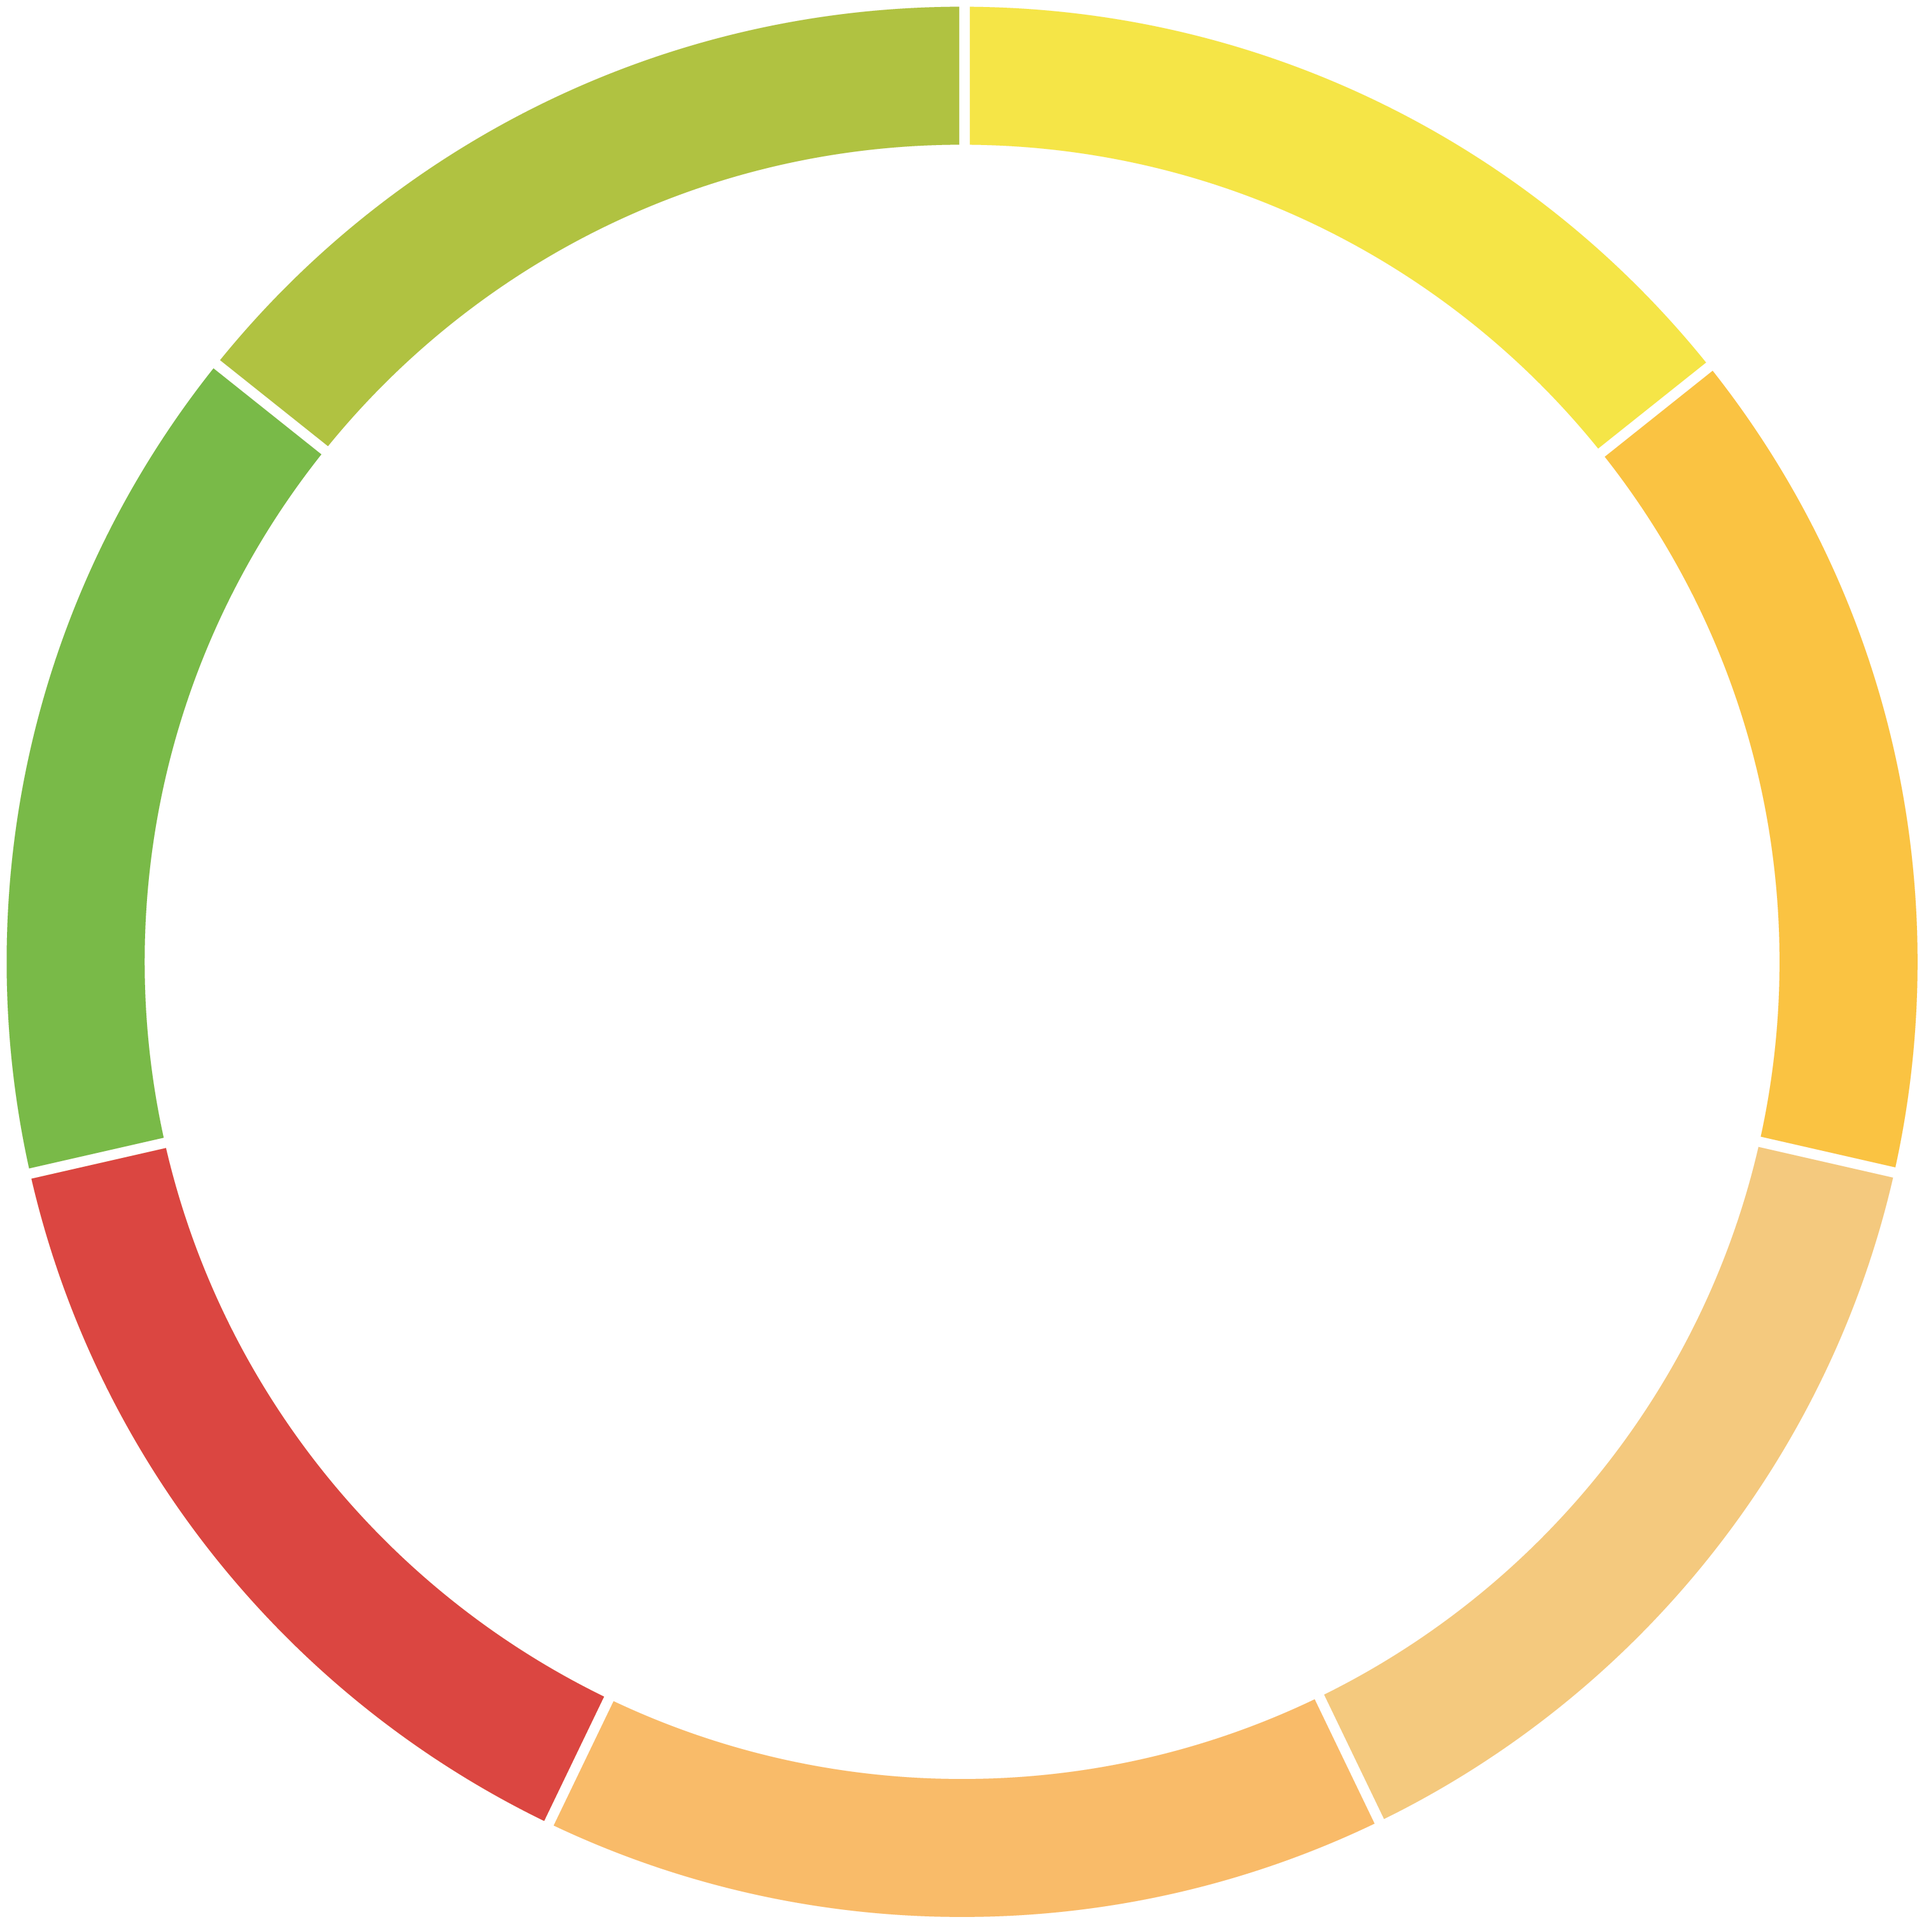
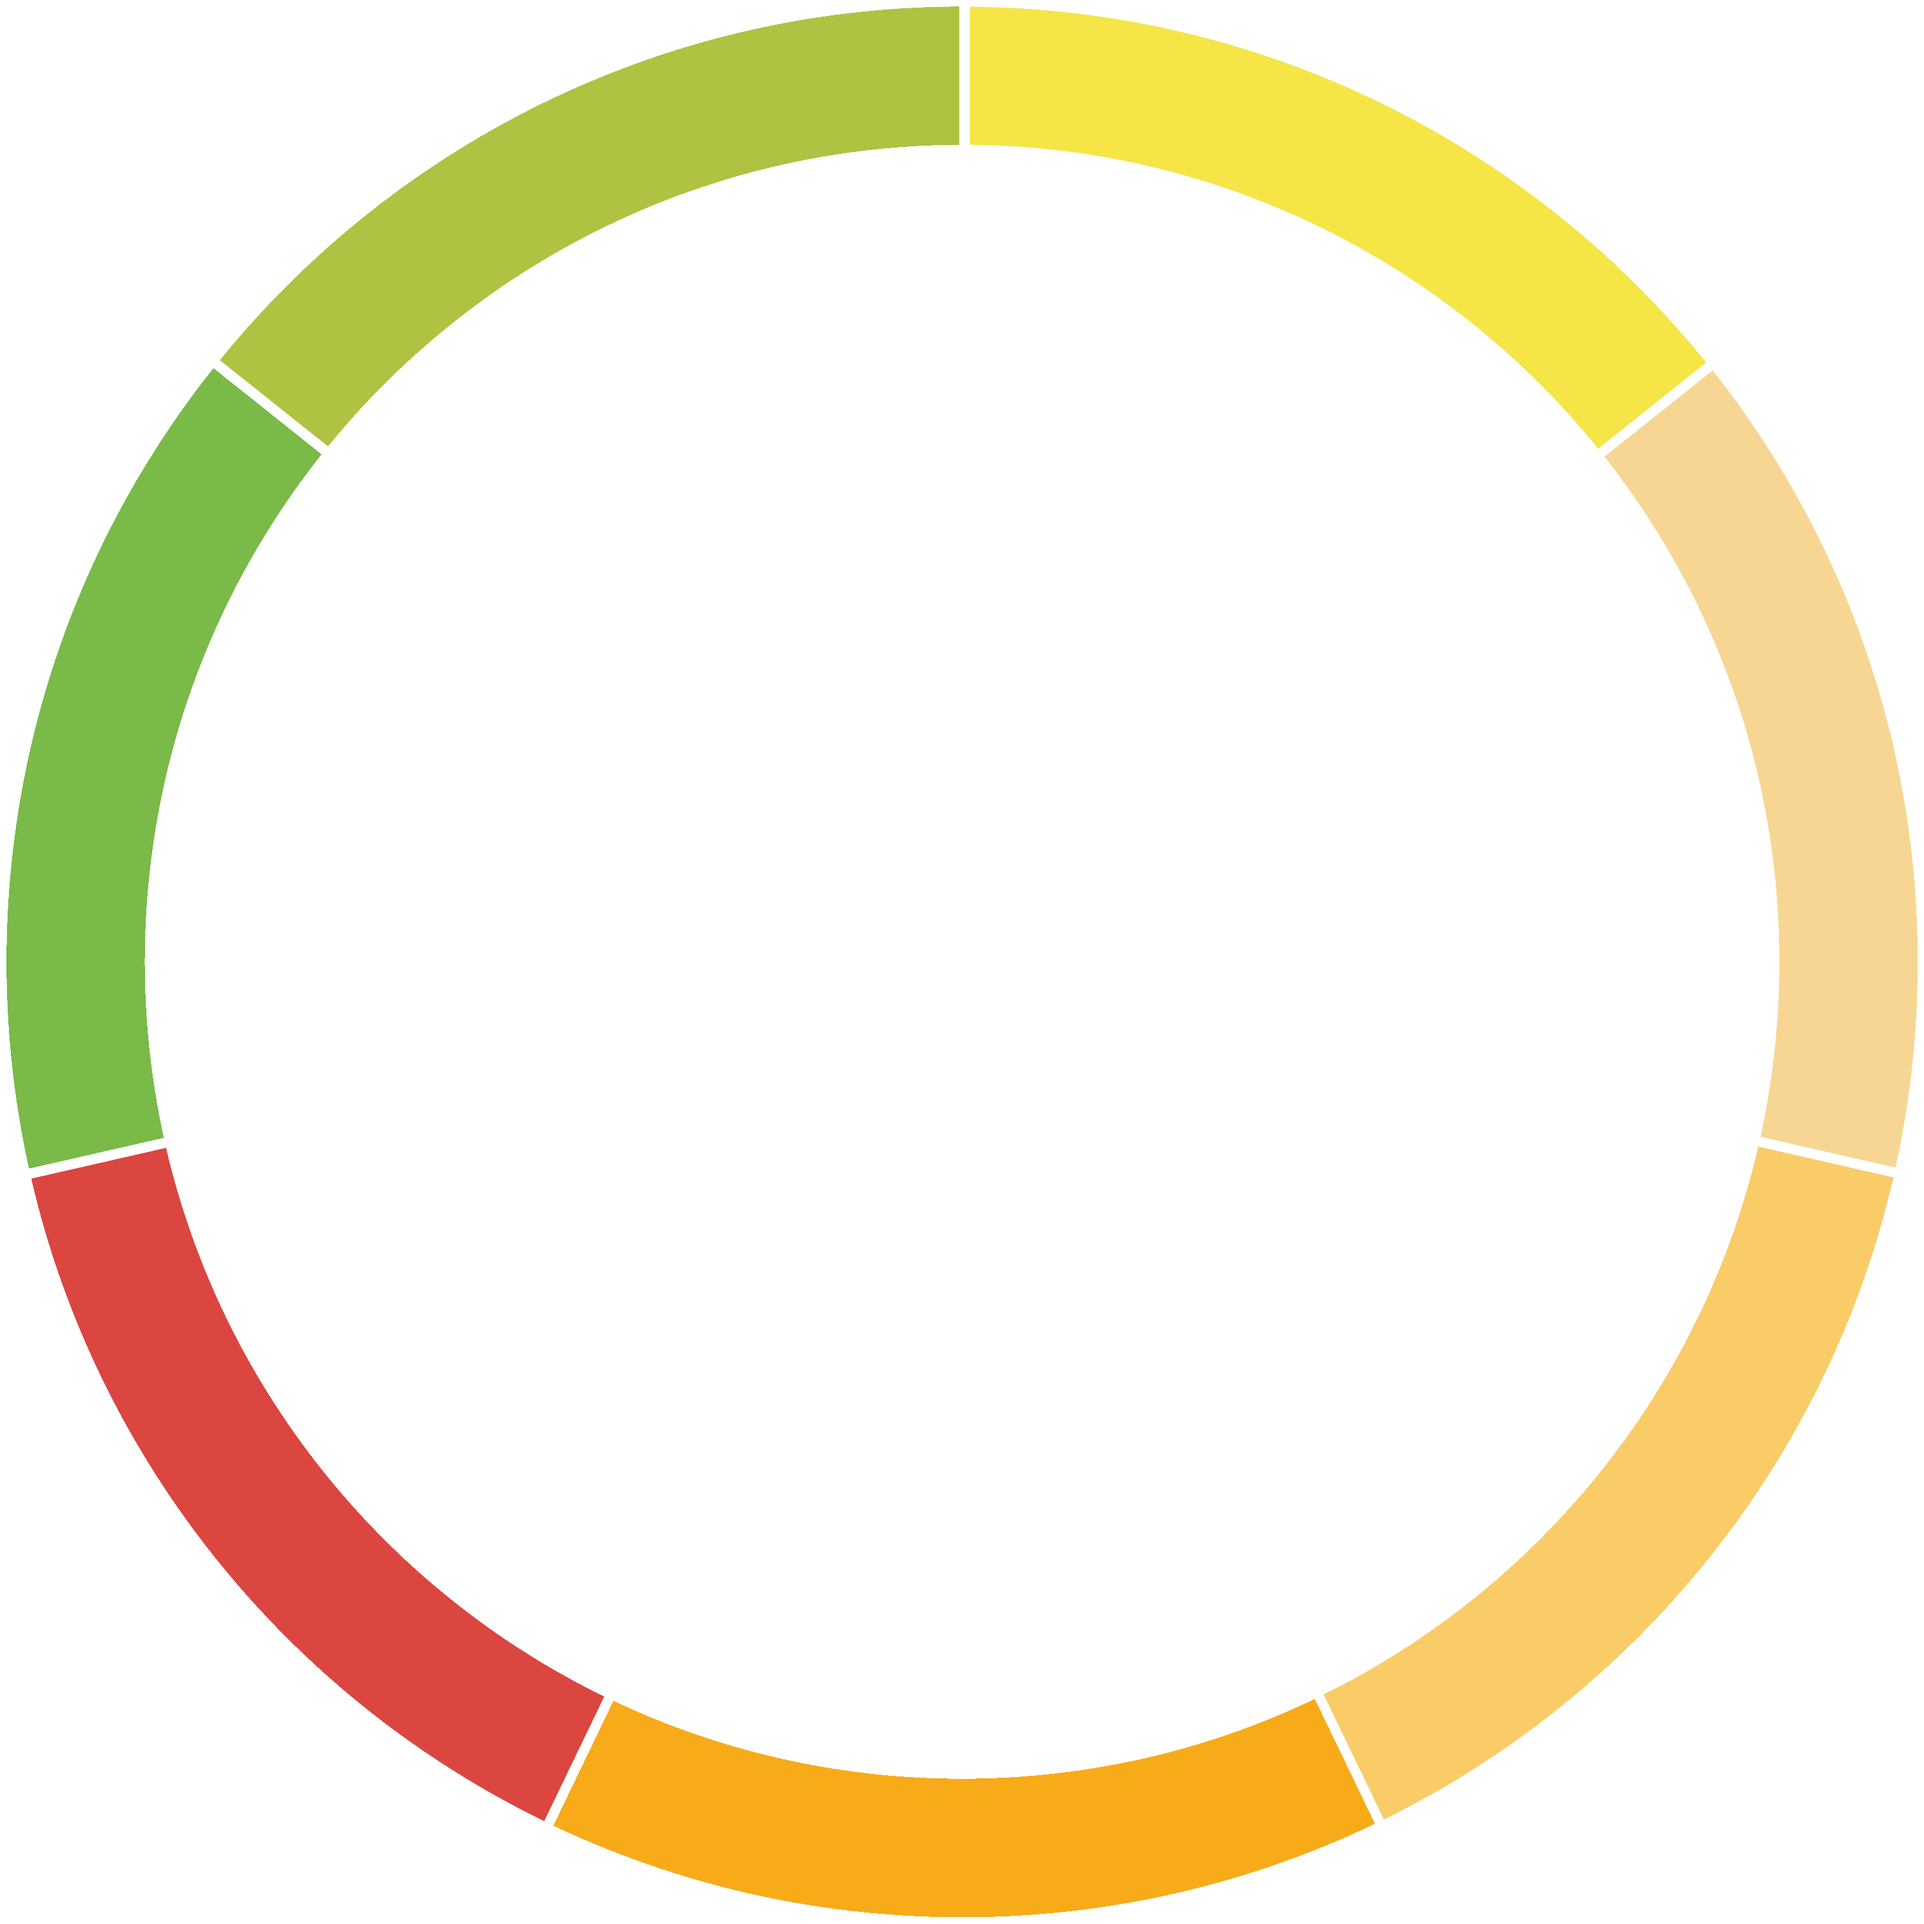
Фикс языка  Раскраска RACVD

Changed region(s): [[0.2799, 0.8704, 0.7152, 1.0], [0.8396, 0.1865, 1.0, 0.6217]]

diff --git a/healinoVue/src/components/RezultPublic-component.vue b/healinoVue/src/components/RezultPublic-component.vue
@@ -232,8 +232,8 @@
                 share: 'SHARE',
                 AgeDescriptionText:
                 "<p>Your age:</p>"+
-                "<p>Mental  {MentalAge} years. {txtMental}</p>"+
-                "<p>Biological  {BiologicalAge} years. {txtBiological}</p>"+
+                "<p>Mental {MentalAge} years. {txtMental}</p>"+
+                "<p>Biological {BiologicalAge} years. {txtBiological}</p>"+
                 "<p>Chronological {ChronologicalAge} years. </p>",
 
                 AgeBCom0: "It is necessary to see a doctor",
@@ -264,8 +264,8 @@
                 share: 'ПОДЕЛИТЬСЯ',
                 AgeDescriptionText:
                 "<p>Ваш возраст:</p>"+
-                "<p>Ментальный  {MentalAge} лет.   {txtMental}</p>"+
-                "<p>Биологический  {BiologicalAge} лет.   {txtBiological}</p>"+
+                "<p>Ментальный {MentalAge} лет. {txtMental}</p>"+
+                "<p>Биологический {BiologicalAge} лет. {txtBiological}</p>"+
                 "<p>Хронологический {ChronologicalAge} лет.</p>",
                 AgeBCom0: "Необходим осмотр врача",
                 AgeBCom1: "Ваше тело в отличной форме и моложе",
@@ -320,7 +320,7 @@
                 AgeMCom8: "Wysokie prawdopodobieństwo problemów psychologicznych",
 
                 CVDdescriptionText: '<p>Przez całe życie ryzyko wystąpienia miażdżycowej choroby sercowo-naczyniowej wynosi {RASCVD}%</p>'+
-                '<p>OW ciągu najbliższych 10 lat ryzyko wystąpienia miażdżycowej choroby sercowo-naczyniowej wynosi  {TenYearsASCVDCalculated}%.</p>'+
+                '<p>W ciągu najbliższych 10 lat ryzyko wystąpienia miażdżycowej choroby sercowo-naczyniowej wynosi {TenYearsASCVDCalculated}%.</p>'+
                 '<p>Możesz zmniejszyć ryzyko wystąpienia miażdżycowej choroby sercowo-naczyniowej do {TenYearsASCVDOptimal}%.</p>',
             }
         },

diff --git a/healinoVue/src/components/indicator-CVD10.vue b/healinoVue/src/components/indicator-CVD10.vue
@@ -1,6 +1,7 @@
 <template>
   <div class="mini_indicator mini_indicator6" v-on:click="start">
     <div class="progress_bar2">
+      <div class="color" v-bind:style="{background:color[colorId]}"></div>
       <div class="cursor"
            v-bind:style="{ transform: 'rotate(' + TenYearsASCVDDeg + 'deg)' }"></div>
       <div class="opacity_cursor" v-bind:style="{ transform: 'rotate(' + TenYearsASCVDDegOp + 'deg)' }"></div>
@@ -18,7 +19,9 @@ export default {
     data () {
         return {
             animateVal:0 ,
-            valArray:[]
+            valArray:[],
+            color:['#2FAA52', '#79BA48', '#FEE79A', '#FAC342', '#DB4641'],
+            colorId:0
         }
     },
 
@@ -31,13 +34,16 @@ export default {
         },
         TenYearsASCVDDeg:function(){
             if(this.animateVal<=this.minValue){
+                this.colorId = 0;
                 return 360 - 3.6 *0 -37;
             }
             if(this.animateVal>=this.maxValue){
+                this.colorId = 4;
                 return 360 - 3.6 *100 -35;
             }
             //return 360 - 3.6 * (this.animateVal - this.minValue) * 100 / (this.maxValue - this.minValue) -36;
             for(var w=0; w<this.rezultData.TenYearsASCVDScale.length; w++ ){
+                this.colorId = w;
                 if(this.animateVal < this.rezultData.TenYearsASCVDScale[w].Value){
                     break;
                 }
@@ -123,5 +129,13 @@ export default {
     border-radius: 3px;
     width: 5px;
     height: 90%;
+  }
+  .color{
+    width: 86.5%;
+    position: absolute;
+    height: 86.5%;
+    border-radius: 50%;
+    top: 6.5%;
+    left: 6.5%;
   }
 </style>

diff --git a/healinoVue/src/components/indicator-CVD5.vue b/healinoVue/src/components/indicator-CVD5.vue
@@ -1,6 +1,7 @@
 <template>
   <div class="mini_indicator mini_indicator4"  v-on:click="start">
     <div class="progress_bar2">
+      <div class="color" v-bind:style="{background:color[colorId]}"></div>
       <div class="cursor"
            v-bind:style="{ transform: 'rotate(' + RASCVDDeg + 'deg)' }"></div>
       <div class="opacity_cursor" v-bind:style="{ transform: 'rotate(' + RASCVDDegOp + 'deg)' }"></div>
@@ -19,6 +20,8 @@ export default {
         return {
             animateVal:0 ,
             valArray:[],
+            color:['#2FAA52', '#79BA48', '#FEE79A', '#FAC342', '#DB4641'],
+            colorId:0
         }
     },
 
@@ -31,13 +34,16 @@ export default {
         },
         RASCVDDeg:function(){
             if(this.animateVal<=this.minValue){
+                this.colorId = 0;
                 return 360 - 3.6 *0 -37;
             }
             if(this.animateVal>=this.maxValue){
+                this.colorId = 4;
                 return 360 - 3.6 *100 -35;
             }
             //return 360 - 3.6 * (this.animateVal - this.minValue) * 100 / (this.maxValue - this.minValue) -36;
             for(var w=0; w<this.rezultData.RASCVDScale.length; w++ ){
+                this.colorId = w;
                 if(this.animateVal < this.rezultData.RASCVDScale[w].Value){
                     break;
                 }
@@ -123,5 +129,13 @@ export default {
     border-radius: 3px;
     width: 5px;
     height: 90%;
+  }
+  .color{
+    width: 86.5%;
+    position: absolute;
+    height: 86.5%;
+    border-radius: 50%;
+    top: 6.5%;
+    left: 6.5%;
   }
 </style>

diff --git a/healinoVue/src/App.vue b/healinoVue/src/App.vue
@@ -414,6 +414,13 @@ export default {
                               expires: 10000,
                               path: '/'
                           });
+                          if(getCookie('lang')){
+                              t.lang = getCookie('lang');
+                              t.changeLang(t.lang);
+                          }
+                          else{
+                              t.changeLang(t.lang)
+                          }
                           try {
                               history.pushState(null, null, "/");
                               return;

diff --git a/healinoVue/src/components/Theme-component.vue b/healinoVue/src/components/Theme-component.vue
@@ -72,7 +72,7 @@
         },
         watch:{
             List:function (newVal, OldVal) {
-                this.changeActive(newVal[this.activeId]);
+                this.changeActive(newVal[0]);
             }
         },
         messages: {
